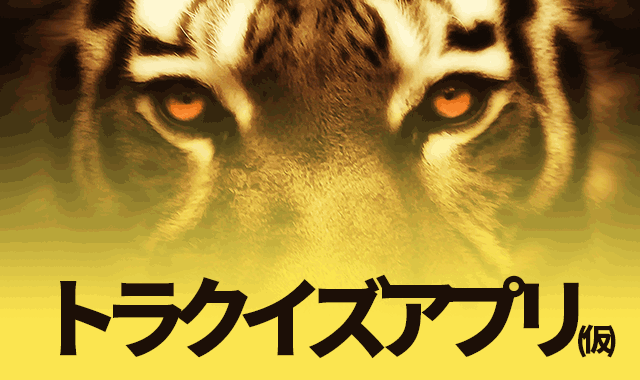
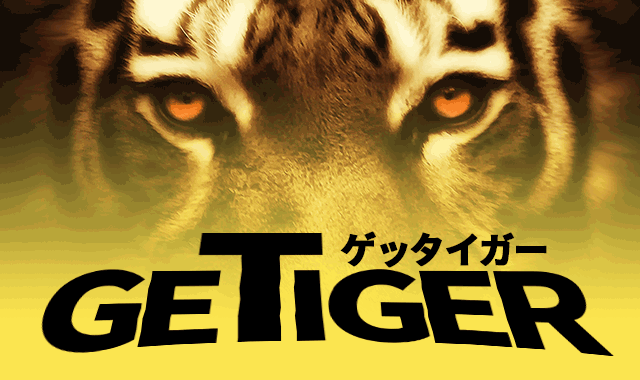
アプリ名が「GETIGER」に確定したので変更

Changed region(s): [[0.0625, 0.6079, 0.9688, 0.9553]]

diff --git a/public/index.html b/public/index.html
@@ -12,7 +12,7 @@
     <meta name="keywords" content="虎, クイズ">
     <meta name="author" content="HARP">
 
-    <title>トラクイズアプリ(仮)</title>
+    <title>GETIGER</title>
 
     <link rel="stylesheet" href="../css/common.css" media='all'>
     <script src="../js/lib/jquery.min.js"></script>
@@ -57,7 +57,9 @@
             </a>
             
             <h1 class="header__title">
-              <a href="index.html">トラクイズアプリ(仮)</a>
+              <a href="index.html">
+                <img src="../images/logo_small.png" class="header__title__img" alt="GETIGER">
+              </a>
             </h1>
         </header>
 
@@ -65,7 +67,7 @@
 
             <main class="content-main">
 
-                <img src="../images/top_eyecatch.png" class="p-top__eyecatch" alt="トラクイズアプリ（仮）">
+                <img src="../images/top_eyecatch.png" class="p-top__eyecatch" alt="GETIGER">
                 
                 <nav class="p-top__main-nav">
                     <a href="quiz.html" class="p-top__main-nav__item--quiz">

diff --git a/public/login.html b/public/login.html
@@ -12,7 +12,7 @@
     <meta name="keywords" content="虎, クイズ">
     <meta name="author" content="HARP">
 
-    <title>トラクイズアプリ(仮)</title>
+    <title>GETIGER</title>
 
     <link rel="stylesheet" href="../css/common.css" media='all'>
     <script src="../js/lib/jquery.min.js"></script>
@@ -36,7 +36,7 @@
 
         <header class="header" id="page-top">
             <h1 class="header__title">
-              <a href="index.html">トラクイズアプリ(仮)</a>
+              <a href="index.html"><img src="../images/logo_small.png" class="header__title__img" alt="GETIGER"></a>
             </h1>
         </header>
 
@@ -44,7 +44,7 @@
 
             <main class="content-main">
 
-                <img src="../images/top_eyecatch.png" class="p-top__eyecatch" alt="トラクイズアプリ（仮）">
+                <img src="../images/top_eyecatch.png" class="p-top__eyecatch" alt="GETIGER">
                 
                 <form class="c-form p-top__login-form">
                   <div class="c-form__group">

diff --git a/public/collection_item.html b/public/collection_item.html
@@ -12,7 +12,7 @@
     <meta name="keywords" content="虎, クイズ">
     <meta name="author" content="HARP">
 
-    <title>スマトラトラ｜コレクション｜トラクイズアプリ(仮)</title>
+    <title>スマトラトラ｜コレクション｜GETIGER</title>
 
     <link rel="stylesheet" href="../css/common.css" media='all'>
     <script src="../js/lib/jquery.min.js"></script>
@@ -57,7 +57,7 @@
             </a>
             
             <h1 class="header__title">
-              <a href="index.html">トラクイズアプリ(仮)</a>
+              <a href="index.html"><img src="../images/logo_small.png" class="header__title__img" alt="GETIGER"></a>
             </h1>
         </header>
 

diff --git a/public/create_account.html b/public/create_account.html
@@ -12,7 +12,7 @@
     <meta name="keywords" content="虎, クイズ">
     <meta name="author" content="HARP">
 
-    <title>アカウント登録｜トラクイズアプリ(仮)</title>
+    <title>アカウント登録｜GETIGER</title>
 
     <link rel="stylesheet" href="../css/common.css" media='all'>
     <script src="../js/lib/jquery.min.js"></script>
@@ -36,7 +36,7 @@
 
         <header class="header" id="page-top">
             <h1 class="header__title">
-              <a href="index.html">トラクイズアプリ(仮)</a>
+              <a href="index.html"><img src="../images/logo_small.png" class="header__title__img" alt="GETIGER"></a>
             </h1>
         </header>
 

diff --git a/public/collection.html b/public/collection.html
@@ -12,7 +12,7 @@
     <meta name="keywords" content="虎, クイズ">
     <meta name="author" content="HARP">
 
-    <title>コレクション｜トラクイズアプリ(仮)</title>
+    <title>コレクション｜GETIGER</title>
 
     <link rel="stylesheet" href="../css/common.css" media='all'>
     <script src="../js/lib/jquery.min.js"></script>
@@ -57,7 +57,7 @@
             </a>
             
             <h1 class="header__title">
-              <a href="index.html">トラクイズアプリ(仮)</a>
+              <a href="index.html"><img src="../images/logo_small.png" class="header__title__img" alt="GETIGER"></a>
             </h1>
         </header>
 

diff --git a/public/quiz_correct.html b/public/quiz_correct.html
@@ -12,7 +12,7 @@
     <meta name="keywords" content="虎, クイズ">
     <meta name="author" content="HARP">
 
-    <title>クイズ - 正解｜トラクイズアプリ(仮)</title>
+    <title>クイズ - 正解｜GETIGER</title>
 
     <link rel="stylesheet" href="../css/common.css" media='all'>
     <script src="../js/lib/jquery.min.js"></script>
@@ -57,7 +57,7 @@
             </a>
             
             <h1 class="header__title">
-              <a href="index.html">トラクイズアプリ(仮)</a>
+              <a href="index.html"><img src="../images/logo_small.png" class="header__title__img" alt="GETIGER"></a>
             </h1>
         </header>
 

diff --git a/public/quiz_incorrect.html b/public/quiz_incorrect.html
@@ -12,7 +12,7 @@
     <meta name="keywords" content="虎, クイズ">
     <meta name="author" content="HARP">
 
-    <title>クイズ - 正解｜トラクイズアプリ(仮)</title>
+    <title>クイズ - 正解｜GETIGER</title>
 
     <link rel="stylesheet" href="../css/common.css" media='all'>
     <script src="../js/lib/jquery.min.js"></script>
@@ -57,7 +57,7 @@
             </a>
             
             <h1 class="header__title">
-              <a href="index.html">トラクイズアプリ(仮)</a>
+              <a href="index.html"><img src="../images/logo_small.png" class="header__title__img" alt="GETIGER"></a>
             </h1>
         </header>
 

diff --git a/public/gacha.html b/public/gacha.html
@@ -12,7 +12,7 @@
     <meta name="keywords" content="虎, クイズ">
     <meta name="author" content="HARP">
 
-    <title>ガチャ｜トラクイズアプリ(仮)</title>
+    <title>ガチャ｜GETIGER</title>
 
     <link rel="stylesheet" href="../css/common.css" media='all'>
     <script src="../js/lib/jquery.min.js"></script>
@@ -57,7 +57,7 @@
             </a>
             
             <h1 class="header__title">
-              <a href="index.html">トラクイズアプリ(仮)</a>
+              <a href="index.html"><img src="../images/logo_small.png" class="header__title__img" alt="GETIGER"></a>
             </h1>
         </header>
 

diff --git a/public/gacha_get.html b/public/gacha_get.html
@@ -12,7 +12,7 @@
     <meta name="keywords" content="虎, クイズ">
     <meta name="author" content="HARP">
 
-    <title>ガチャ｜トラクイズアプリ(仮)</title>
+    <title>ガチャ｜GETIGER</title>
 
     <link rel="stylesheet" href="../css/common.css" media='all'>
     <script src="../js/lib/jquery.min.js"></script>
@@ -57,7 +57,7 @@
             </a>
             
             <h1 class="header__title">
-              <a href="index.html">トラクイズアプリ(仮)</a>
+              <a href="index.html"><img src="../images/logo_small.png" class="header__title__img" alt="GETIGER"></a>
             </h1>
         </header>
 

diff --git a/public/gacha_get_rare.html b/public/gacha_get_rare.html
@@ -12,7 +12,7 @@
     <meta name="keywords" content="虎, クイズ">
     <meta name="author" content="HARP">
 
-    <title>ガチャ｜トラクイズアプリ(仮)</title>
+    <title>ガチャ｜GETIGER</title>
 
     <link rel="stylesheet" href="../css/common.css" media='all'>
     <script src="../js/lib/jquery.min.js"></script>
@@ -57,7 +57,7 @@
             </a>
             
             <h1 class="header__title">
-              <a href="index.html">トラクイズアプリ(仮)</a>
+              <a href="index.html"><img src="../images/logo_small.png" class="header__title__img" alt="GETIGER"></a>
             </h1>
         </header>
 

diff --git a/public/quiz.html b/public/quiz.html
@@ -12,7 +12,7 @@
     <meta name="keywords" content="虎, クイズ">
     <meta name="author" content="HARP">
 
-    <title>クイズ｜トラクイズアプリ(仮)</title>
+    <title>クイズ｜GETIGER</title>
 
     <link rel="stylesheet" href="../css/common.css" media='all'>
     <script src="../js/lib/jquery.min.js"></script>
@@ -56,7 +56,7 @@
             </a>
 
             <h1 class="header__title">
-              <a href="index.html">トラクイズアプリ(仮)</a>
+              <a href="index.html"><img src="../images/logo_small.png" class="header__title__img" alt="GETIGER"></a>
             </h1>
         </header>
 

diff --git a/scss/common.scss b/scss/common.scss
@@ -90,6 +90,11 @@ body {
             color: #fff;
             text-decoration: none;
         }
+        
+        .header__title__img {
+            height: 21px;
+            margin-left: 5px;
+        }
     }
     
     .header__btn {
